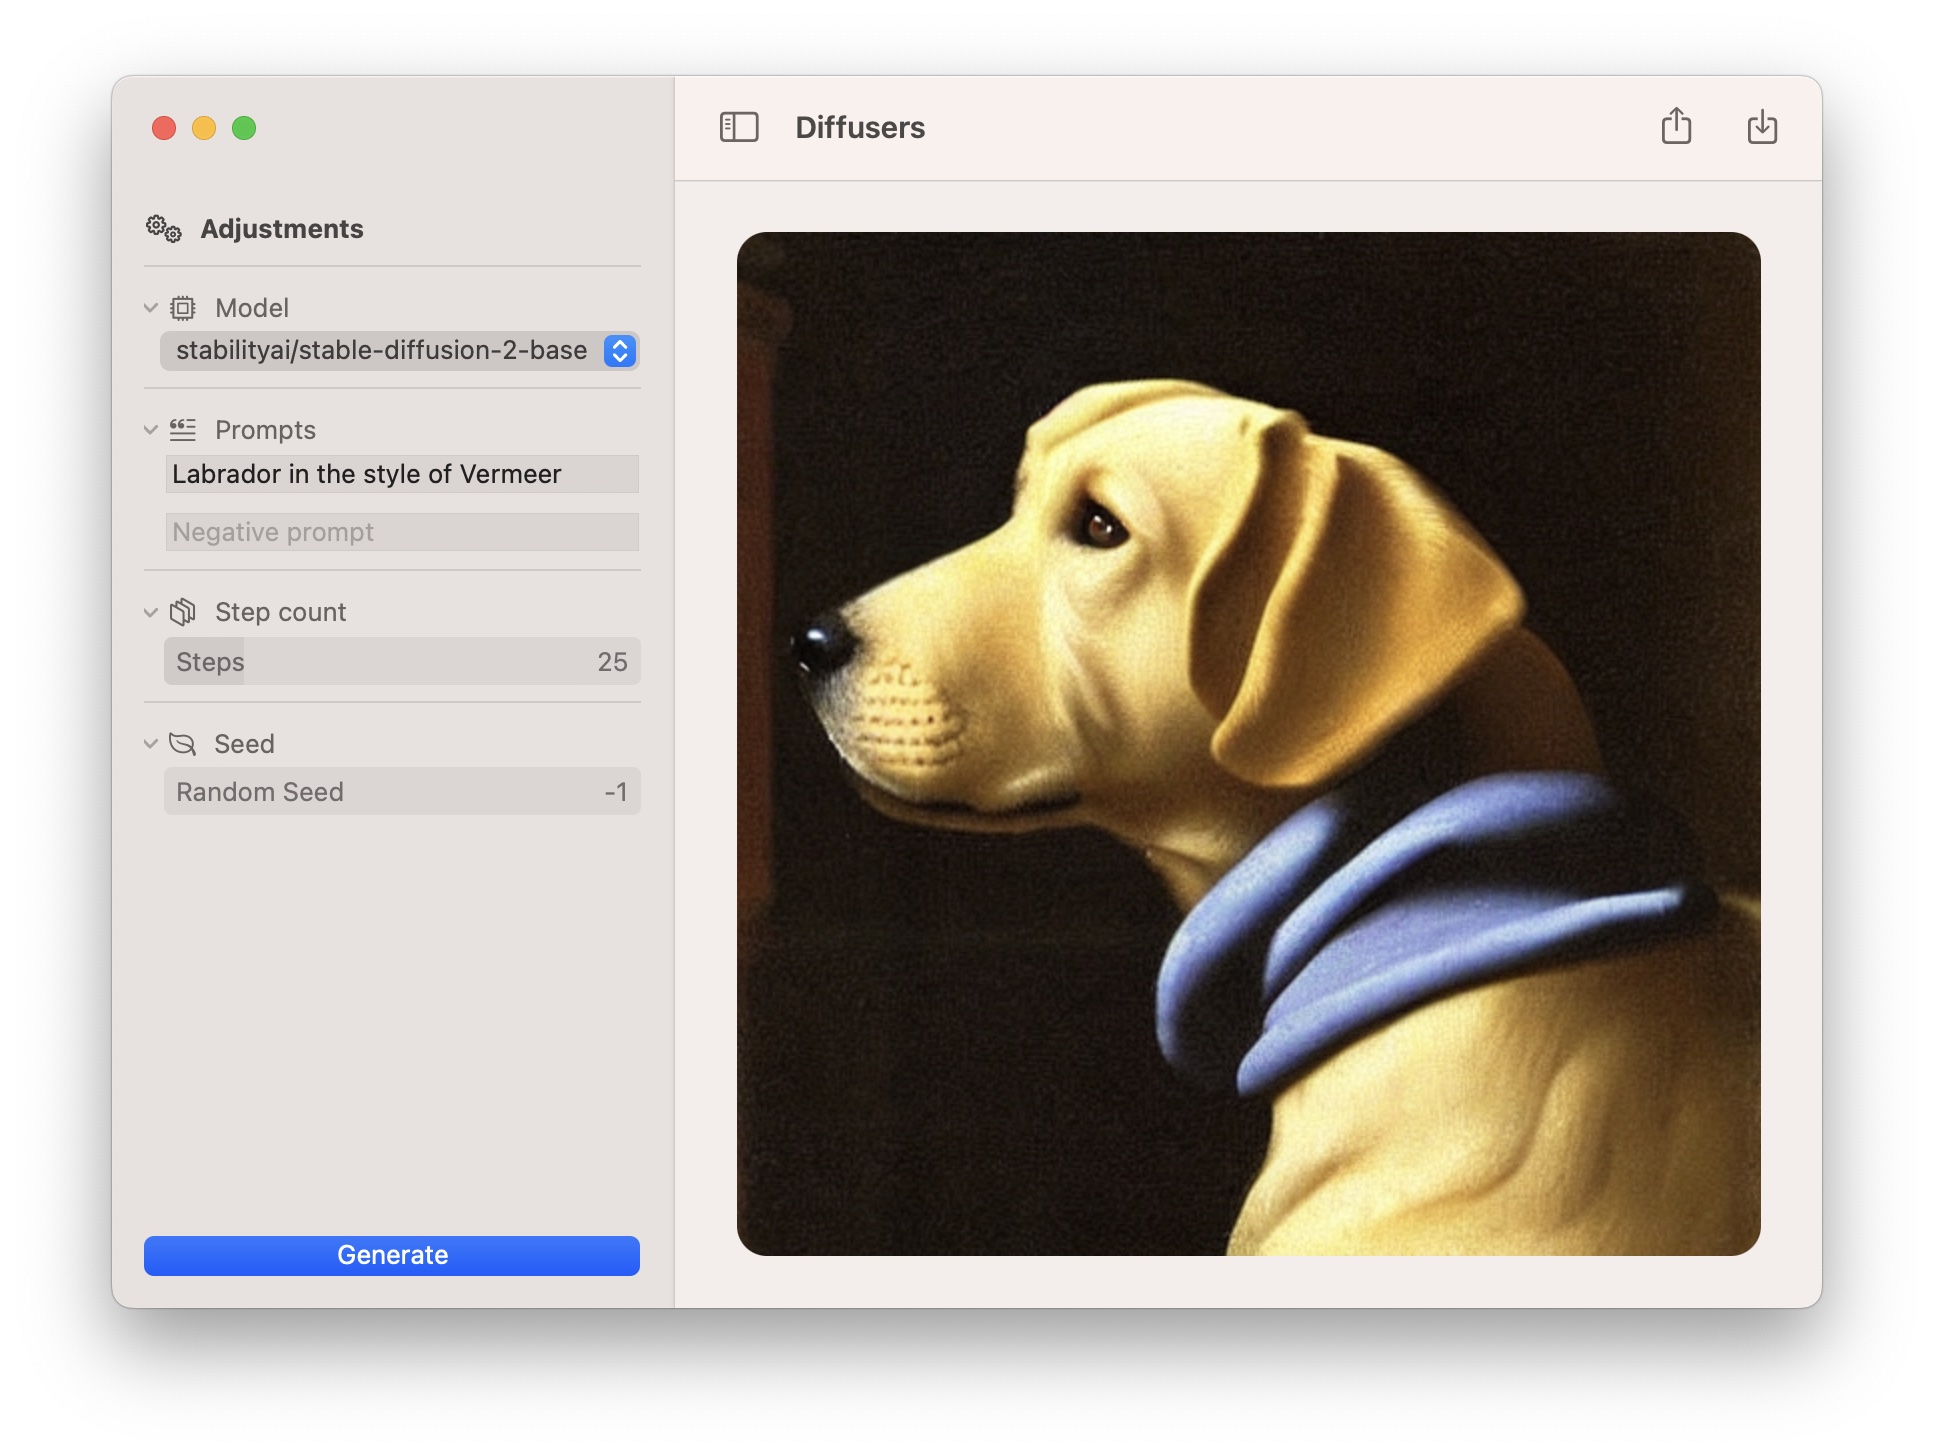
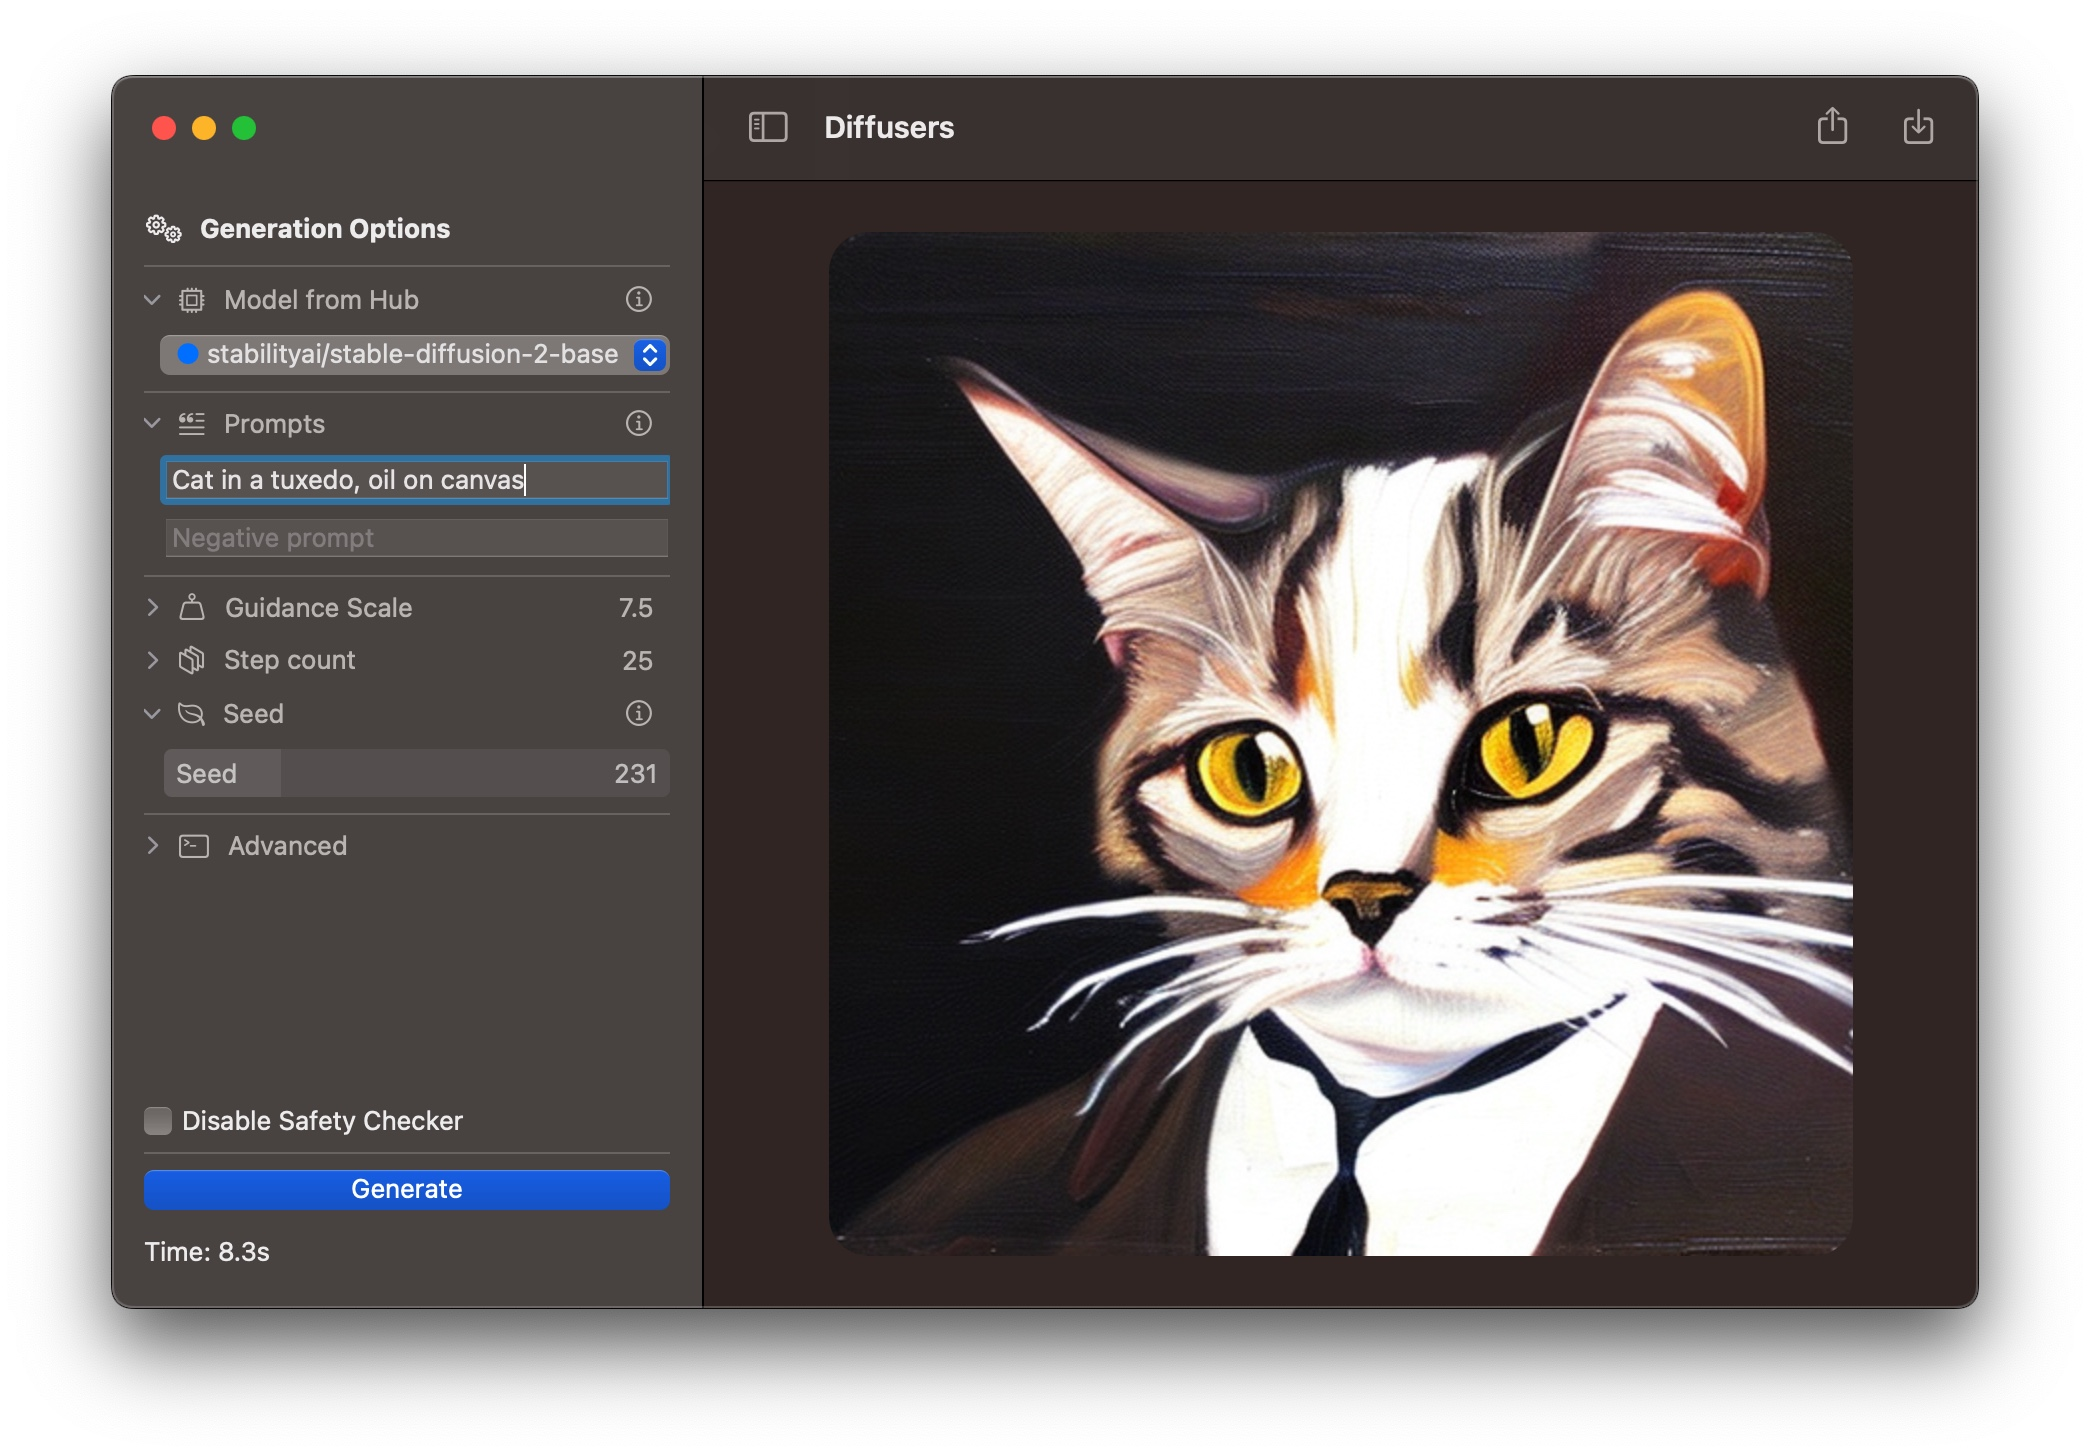
Update README and screenshot (#34)
* Update README and screenshot.

diff --git a/README.md b/README.md
@@ -1,20 +1,34 @@
 #  Swift Core ML Diffusers 🧨
 
-This is a simple app that shows how to integrate Apple's [Core ML Stable Diffusion implementation](https://github.com/apple/ml-stable-diffusion) in a native Swift UI application. The Core ML port is a simplification of the Stable Diffusion implementation from the [diffusers library](https://github.com/huggingface/diffusers). This application can be used for faster iteration, or as sample code for any use cases.
+This is a native app that shows how to integrate Apple's [Core ML Stable Diffusion implementation](https://github.com/apple/ml-stable-diffusion) in a native Swift UI application. The Core ML port is a simplification of the Stable Diffusion implementation from the [diffusers library](https://github.com/huggingface/diffusers). This application can be used for faster iteration, or as sample code for any use cases.
 
 This is what the app looks like on macOS:
 ![App Screenshot](screenshot.jpg)
 
-On first launch, the application downloads a zipped archive with a Core ML version of Runway's Stable Diffusion v1.5, from [this location in the Hugging Face Hub](https://huggingface.co/pcuenq/coreml-stable-diffusion/tree/main). This process takes a while, as several GB of data have to be downloaded and unarchived.
+On first launch, the application downloads a zipped archive with a Core ML version of Stability AI's Stable Diffusion v2 base, from [this location in the Hugging Face Hub](https://huggingface.co/pcuenq/coreml-stable-diffusion-2-base/tree/main). This process takes a while, as several GB of data have to be downloaded and unarchived.
 
-For faster inference, we use a very fast scheduler: [DPM-Solver++](https://github.com/LuChengTHU/dpm-solver) that we ported to Swift. Since this scheduler is still not available in Apple's GitHub repository, the application depends on the following fork instead: https://github.com/pcuenca/ml-stable-diffusion. Our Swift port is based on [Diffusers' DPMSolverMultistepScheduler](https://github.com/huggingface/diffusers/blob/main/src/diffusers/schedulers/scheduling_dpmsolver_multistep.py), with a number of simplifications.
+For faster inference, we use a very fast scheduler: [DPM-Solver++](https://github.com/LuChengTHU/dpm-solver), that we ported to Swift from our [diffusers DPMSolverMultistepScheduler implementation](https://github.com/huggingface/diffusers/blob/main/src/diffusers/schedulers/scheduling_dpmsolver_multistep.py).
 
-## Compatibility
+## Compatibility and Performance
 
 - macOS Ventura 13.1, iOS/iPadOS 16.2, Xcode 14.2.
 - Performance (after the initial generation, which is slower)
-  * ~8s in macOS on MacBook Pro M1 Max (64 GB). Model: Stable Diffusion v2-base, ORIGINAL attention implementation, CPU + GPU.
+  * ~8s in macOS on MacBook Pro M1 Max (64 GB). Model: Stable Diffusion v2-base, ORIGINAL attention implementation, running on CPU + GPU.
   * 23 ~ 30s on iPhone 13 Pro. Model: Stable Diffusion v2-base, SPLIT_EINSUM attention, CPU + Neural Engine, memory reduction enabled.
+
+See [this post](https://huggingface.co/blog/fast-mac-diffusers) and [this issue](https://github.com/huggingface/swift-coreml-diffusers/issues/31) for additional performance figures.
+
+The application will try to guess the best hardware to run models on. You can override this setting using the `Advanced` section in the controls sidebar.
+
+## How to Run
+
+The easiest way to test the app on macOS is by [downloading it from the Mac App Store](https://apps.apple.com/app/diffusers/id1666309574).
+
+## How to Build
+
+You need [Xcode](https://developer.apple.com/xcode/) to build the app. When you clone the repo, please update `common.xcconfig` with your development team identifier. Code signing is required to run on iOS, but it's currently disabled for macOS.
+
+## Known Issues
 
 Performance on iPhone is somewhat erratic, sometimes it's ~20x slower and the phone heats up. This happens because the model could not be scheduled to run on the Neural Engine and everything happens in the CPU. We have not been able to determine the reasons for this problem. If you observe the same, here are some recommendations:
 - Detach from Xcode
@@ -22,17 +36,6 @@ Performance on iPhone is somewhat erratic, sometimes it's ~20x slower and the ph
 - Let the iPhone cool down before repeating the test.
 - Reboot your device.
 
-## How to Build
-
-If you clone or fork this repo, please update `common.xcconfig` with your development team identifier. Code signing is required to run on iOS, but it's currently disabled for macOS.
-
-## Limitations
-
-- A handful of models are currently supported.
-- The Core ML compute units have been hardcoded to CPU and GPU on macOS, and to CPU + Neural Engine on iOS/iPadOS.
-
 ## Next Steps
 
-- Allow users to select compute units to verify the combination that achieves the best performance on their hardware.
-- Implement other schedulers, additional options.
-- Experiment with smaller distilled models.
+- Allow additional models to be downloaded from the Hub.
